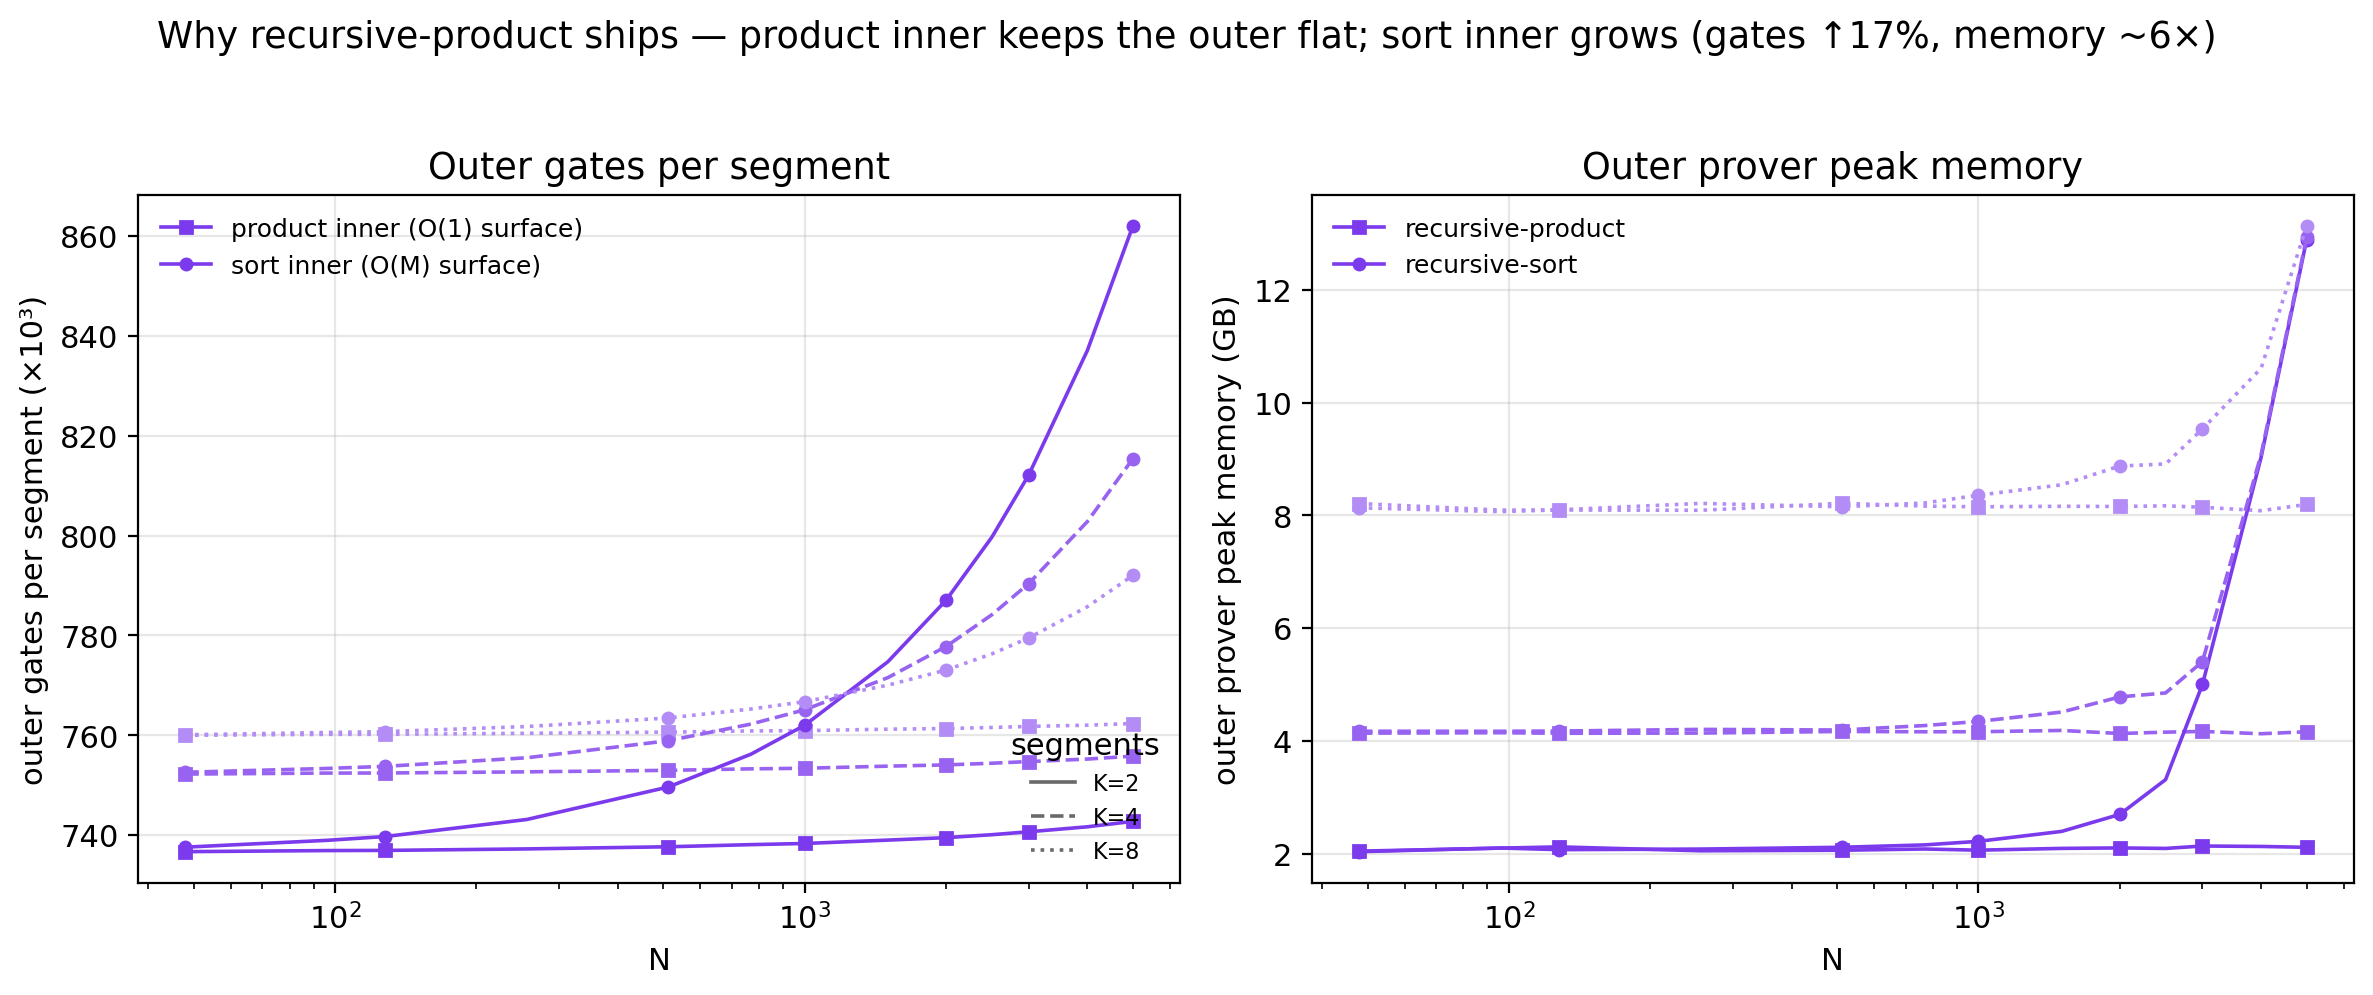
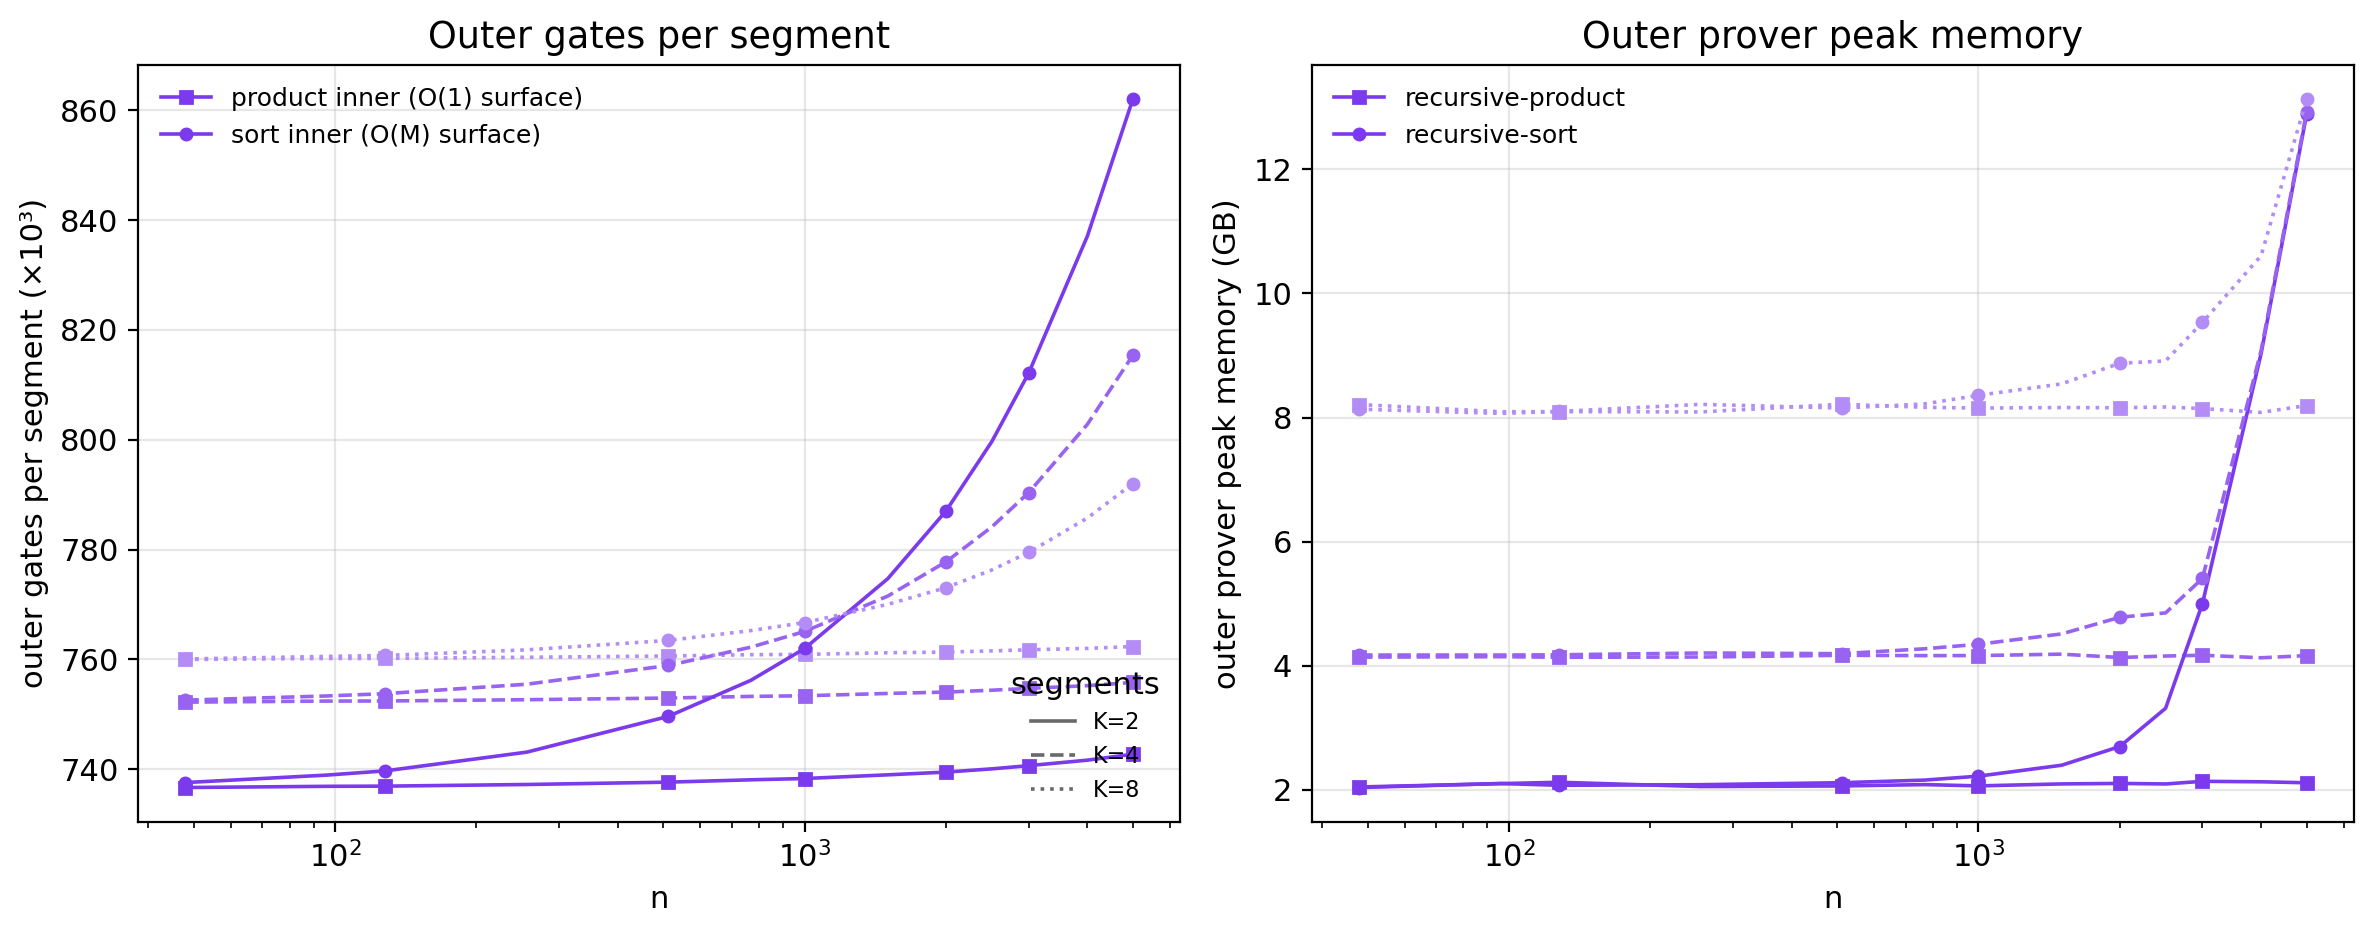
Ch6: draft §6.5 (the 2x2 factorial — aggregation vs mechanism)
§6.5.1 The Factorial: the {flat,recursive}x{sort,product} grid de-confounds the
flat-sort/recursive-product diagonal a deployer would compare. Column delta
(aggregation) ~6.1M gates and mechanism-blind; row delta (mechanism) ~tens of k.
The 4.5x flat-sort->recursive-product blow-up is 99% aggregation. Recursion
total = conserved inner (K*inner ~ flat ~1.8M) + outer (~6.1M, ~3.5x the whole
flat proof) -- the dualism's extreme form. flat-product and recursive-sort are
controls, present only to fill the grid. Label sec:two-by-two (avoids the Ch5
search-oracle sec:factorial); §6.1 reference repointed.

§6.5.2 The Outer Proof: the outer buys the verifier back to flat (O(1): 1 proof,
14.6 KB, 12 ms vs external O(K): 9 proofs/132 KB at K=8). The product inner is
forced because its O(1) surface keeps the outer flat in n; the sort inner's O(M)
surface makes it grow. The outer is a monolithic ~8 GB finish that does not
parallelize, re-approaching the wall.

Fix figs 08/09: drop the unsupported "memory ~6x" claim (measured ~1.6x by
n=5000), lowercase n, in-figure titles dropped.

diff --git a/pipeline/plot_thesis_figures.py b/pipeline/plot_thesis_figures.py
@@ -314,7 +314,7 @@ def fig_recursion_m_independence():
             ys=[REC[name][(n,k)]["per_seg"]/1e3 for n in xs]
             ax.plot(xs,ys,ls,marker=mk,ms=4,markevery=2,color=color_for(name,k),lw=1.3,
                     label=(LAB[name] if k==2 else None))
-    ax.set_xscale("log"); ax.set_xlabel("N"); ax.set_ylabel("outer gates per segment (×10³)")
+    ax.set_xscale("log"); ax.set_xlabel("n"); ax.set_ylabel("outer gates per segment (×10³)")
     ax.set_title("Outer gates per segment")
     mleg=ax.legend(fontsize=9,loc="upper left")
     ax.add_artist(mleg); ax.legend(handles=klines,fontsize=8,loc="lower right",title="segments")
@@ -326,10 +326,12 @@ def fig_recursion_m_independence():
             ys=[REC[name][(n,k)]["outer_peak"]/1e3 for n in xs]
             ax.plot(xs,ys,ls,marker=mk,ms=4,markevery=2,color=color_for(name,k),lw=1.3,
                     label=(name if k==2 else None))
-    ax.set_xscale("log"); ax.set_xlabel("N"); ax.set_ylabel("outer prover peak memory (GB)")
+    ax.set_xscale("log"); ax.set_xlabel("n"); ax.set_ylabel("outer prover peak memory (GB)")
     ax.set_title("Outer prover peak memory")
     ax.legend(fontsize=9)
-    fig.suptitle("Why recursive-product ships — product inner keeps the outer flat; sort inner grows (gates ↑17%, memory ~6×)", y=1.03)
+    # No suptitle: caption carries it. (Measured: product inner keeps the outer
+    # flat in n; the sort inner makes it grow, modestly in gates (+4% by n=5000)
+    # and more in memory (~1.6x by n=5000, widening) -- NOT the ~6x once claimed.)
     save(fig, "08_recursion_M_independence")
 
 # --- FIG 9: verifier tax — J1, all three families vs K ---------------------
@@ -344,7 +346,7 @@ def fig_verifier_tax():
         ax.plot(Ks,[(k+1)*PROOF/1024 for k in Ks],"s-",color=col,label=f"{name}  (K+1 proofs, O(K))")
     ax.plot(Ks,[PROOF/1024]*3,"s--",color=C["recursive-product"][0],label="recursion  (1 proof, O(1))")
     ax.set_xlabel("K"); ax.set_ylabel("verifier download (KB)"); ax.set_xticks(Ks)
-    ax.set_title(f"Proof bytes the verifier must check (N={N})"); ax.legend(fontsize=9)
+    ax.set_title(f"Proof bytes the verifier must check (n={N})"); ax.legend(fontsize=9)
     # verify_s
     ax=axes[1]
     fv=fb("flat_merkle_grand_product",N,"verify_s")
@@ -356,7 +358,7 @@ def fig_verifier_tax():
     ax.plot(Ks[:len(rv)],rv,"s--",color=C["recursive-product"][0],label="recursion  (O(1))")
     ax.set_xlabel("K"); ax.set_ylabel("verification time (s)"); ax.set_xticks(Ks)
     ax.set_title("Verifier wall-clock"); ax.legend(fontsize=9)
-    fig.suptitle("The verifier-side stitching tax — hierarchical pays O(K); recursion buys it back to O(1)", y=1.02)
+    # No suptitle: caption carries it.
     save(fig, "09_verifier_tax_vs_K")
 
 # --- FIG 10: three-corner frontier (Pareto) at fixed N ---------------------